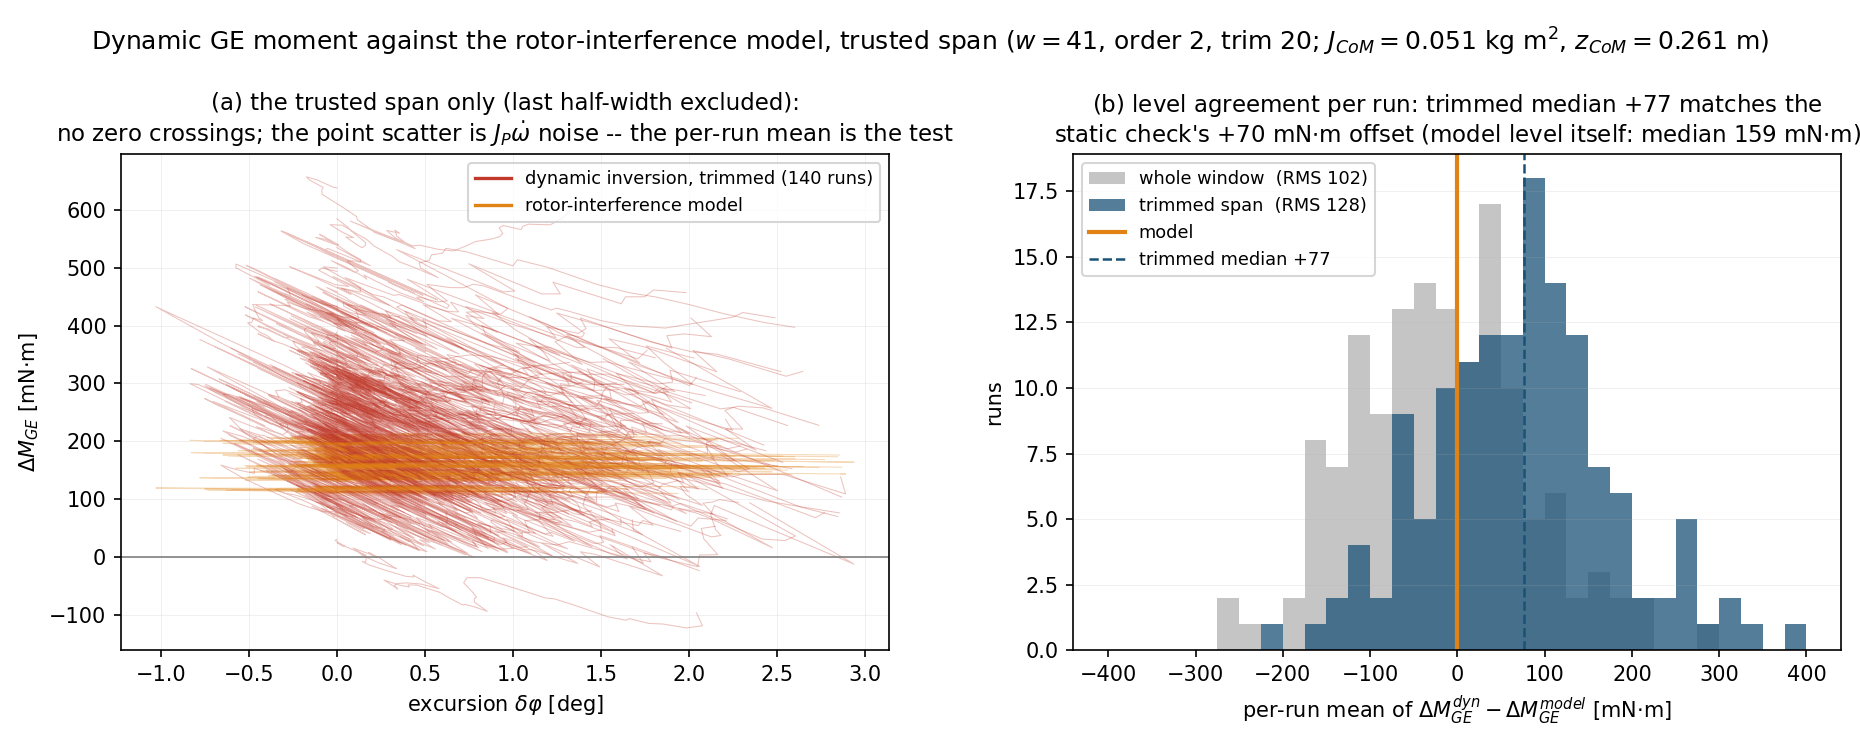
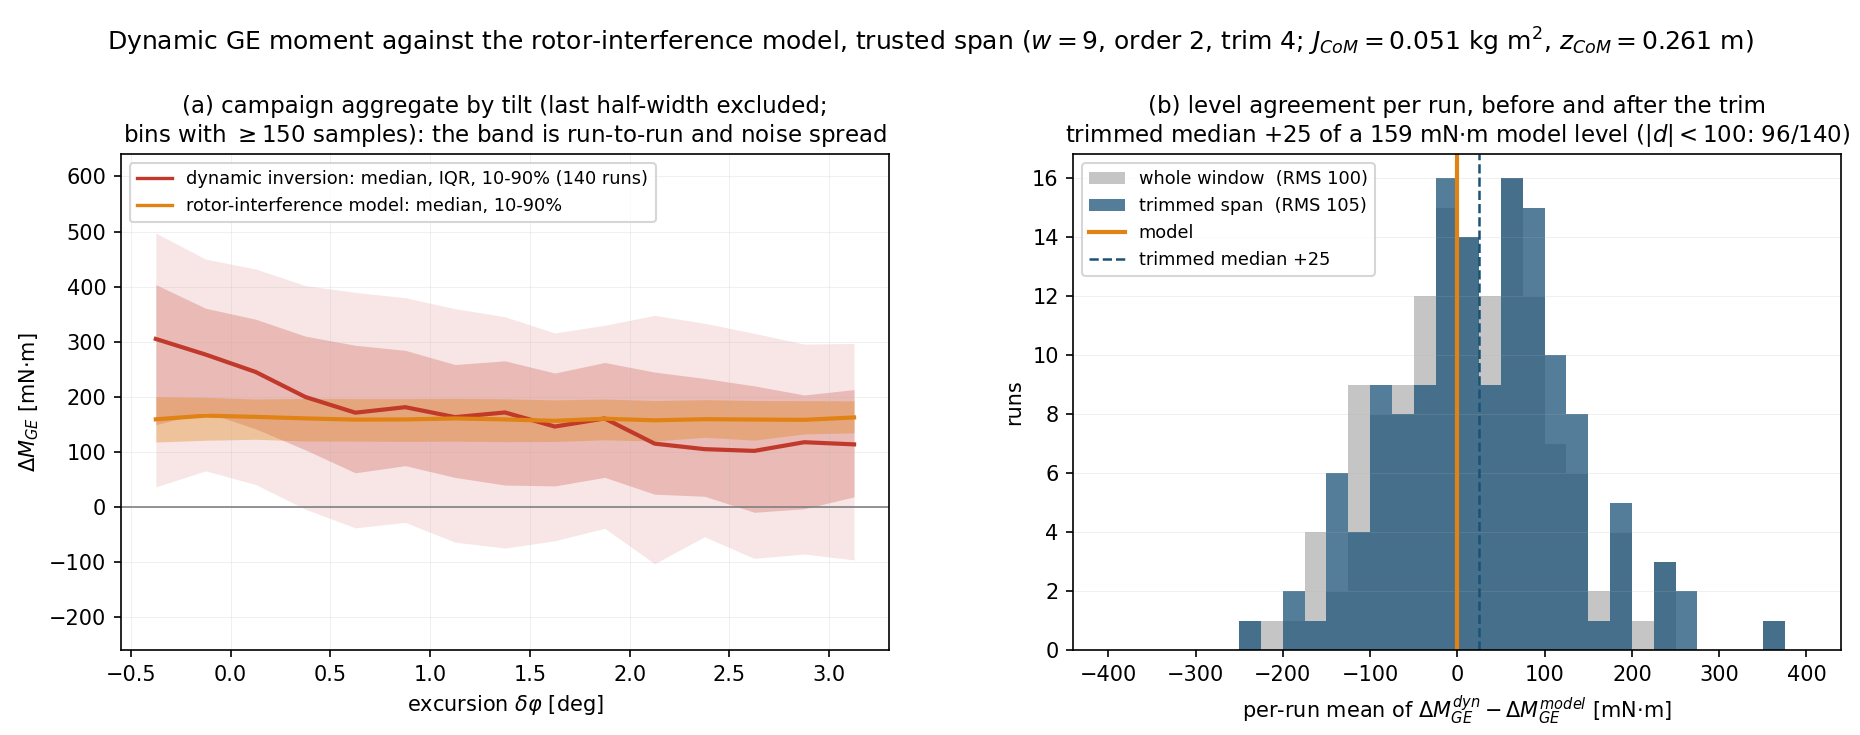
Trusted-span GE level test at the deployed differentiator, banded
Switches the trusted-span comparison to the deployed SG 9-sample
order-2 differentiator (trim = its own half-width, 4 samples), per
review: the level agreement is markedly better than at the 41-sample
window -- per-run mean difference median +25 mN.m (IQR -44..+90, RMS
105) of a 159 mN.m model level, |d| < 100 on 96/140 runs, with 4.75
deg of tilt left in the trusted span.

Panel (a) replaces the 140-trace spaghetti with a campaign aggregate:
median, IQR and 10-90% bands of the inversion binned by tilt (bins
with >= 150 samples), against the model's own band.  The inversion
median rides the model band across the aggregate range with no zero
crossing; the spread is run-to-run plus J_P omega_dot noise.

Claude-Session: https://claude.ai/code/session_01BM6bcsm1ZtLtgegEeuFDVS

diff --git a/analysis/ge_trusted_span.py b/analysis/ge_trusted_span.py
@@ -47,8 +47,9 @@ from analysis.ge_dynamics_check import (                  # noqa: E402
     MASS_KG, G, OFF_SIGN, OFF_MM, j_parallel, analyse)
 
 Z = 0.261
-W_SG = 41              # the 5 Hz-rule window, order 2 (deployed order)
-K_TRIM = 20            # half-width: the regime-mixing exclusion
+W_SG = int(os.environ.get('GE_W', '9'))     # SG window (deployed 9, order 2)
+K_TRIM = int(os.environ.get('GE_K', str(max((W_SG - 1) // 2, 1))))
+# trim = the window's own half-width: the regime-mixing exclusion
 
 
 def collect():
@@ -127,24 +128,44 @@ def main():
     fig.subplots_adjust(left=0.065, right=0.99, top=0.79, bottom=0.115,
                         wspace=0.24)
 
+    PH, GD, GM = [], [], []
     for r in rows:
         ph, gd, gm = r['trace']
         e = len(ph) - K_TRIM
         if e < 10:
             continue
-        a1.plot(ph[:e], gd[:e], '-', color='#c0392b', lw=0.5, alpha=0.30)
-        a1.plot(ph[:e], gm[:e], '-', color='#e08214', lw=0.5, alpha=0.30)
+        PH.append(ph[:e]); GD.append(gd[:e]); GM.append(gm[:e])
+    PH, GD, GM = map(np.concatenate, (PH, GD, GM))
+    bins = np.arange(-0.5, PH.max() + 0.25, 0.25)
+    cx, md_d, q1_d, q3_d, p10, p90, md_m, lo_m, hi_m = ([] for _ in range(9))
+    for b0, b1 in zip(bins[:-1], bins[1:]):
+        m = (PH >= b0) & (PH < b1)
+        if m.sum() < 150:
+            continue
+        cx.append(0.5 * (b0 + b1))
+        md_d.append(np.median(GD[m])); q1_d.append(np.percentile(GD[m], 25))
+        q3_d.append(np.percentile(GD[m], 75))
+        p10.append(np.percentile(GD[m], 10)); p90.append(np.percentile(GD[m], 90))
+        md_m.append(np.median(GM[m])); lo_m.append(np.percentile(GM[m], 10))
+        hi_m.append(np.percentile(GM[m], 90))
+    a1.fill_between(cx, p10, p90, color='#c0392b', alpha=0.12, lw=0)
+    a1.fill_between(cx, q1_d, q3_d, color='#c0392b', alpha=0.25, lw=0)
+    a1.plot(cx, md_d, '-', color='#c0392b', lw=2.0)
+    a1.fill_between(cx, lo_m, hi_m, color='#e08214', alpha=0.35, lw=0)
+    a1.plot(cx, md_m, '-', color='#e08214', lw=2.0)
     a1.plot([], [], '-', color='#c0392b', lw=1.6,
-            label=f'dynamic inversion, trimmed ({len(d_trim)} runs)')
+            label=f'dynamic inversion: median, IQR, 10-90% '
+                  f'({len(d_trim)} runs)')
     a1.plot([], [], '-', color='#e08214', lw=1.6,
-            label='rotor-interference model')
+            label='rotor-interference model: median, 10-90%')
     a1.axhline(0, color='0.5', lw=0.8)
     a1.set_xlabel(r'excursion $\delta\varphi$ [deg]', fontsize=10)
     a1.set_ylabel(r'$\Delta M_{GE}$ [mN$\cdot$m]', fontsize=10)
-    a1.set_title('(a) the trusted span only (last half-width excluded):\n'
-                 'no zero crossings; the point scatter is $J_P\\dot\\omega$ '
-                 'noise -- the per-run mean is the test', fontsize=11)
-    a1.legend(fontsize=8.5, loc='upper right')
+    a1.set_title('(a) campaign aggregate by tilt (last half-width '
+                 'excluded;\nbins with $\\geq$150 samples): the band is '
+                 'run-to-run and noise spread', fontsize=11)
+    a1.legend(fontsize=8.5, loc='upper left')
+    a1.set_ylim(-260, 640)
     a1.grid(alpha=0.22, lw=0.4)
 
     bins = np.linspace(-400, 400, 33)
@@ -158,10 +179,11 @@ def main():
     a2.set_xlabel(r'per-run mean of $\Delta M_{GE}^{dyn} - \Delta M_{GE}'
                   r'^{model}$ [mN$\cdot$m]', fontsize=10)
     a2.set_ylabel('runs', fontsize=10)
-    a2.set_title('(b) level agreement per run: trimmed median $+77$ matches the\n'
-                 'static check\'s $+70$ mN$\\cdot$m offset '
-                 f'(model level itself: median {np.median(lvl):.0f} '
-                 'mN$\\cdot$m)', fontsize=11)
+    a2.set_title('(b) level agreement per run, before and after the trim\n'
+                 f'trimmed median {np.median(d_trim):+.0f} of a '
+                 f'{np.median(lvl):.0f} mN$\\cdot$m model level '
+                 f'($|d|{{<}}100$: {int(np.sum(np.abs(d_trim)<100))}'
+                 f'/{len(d_trim)})', fontsize=11)
     a2.legend(fontsize=8.5, loc='upper left')
     a2.grid(alpha=0.22, lw=0.4, axis='y')
 
